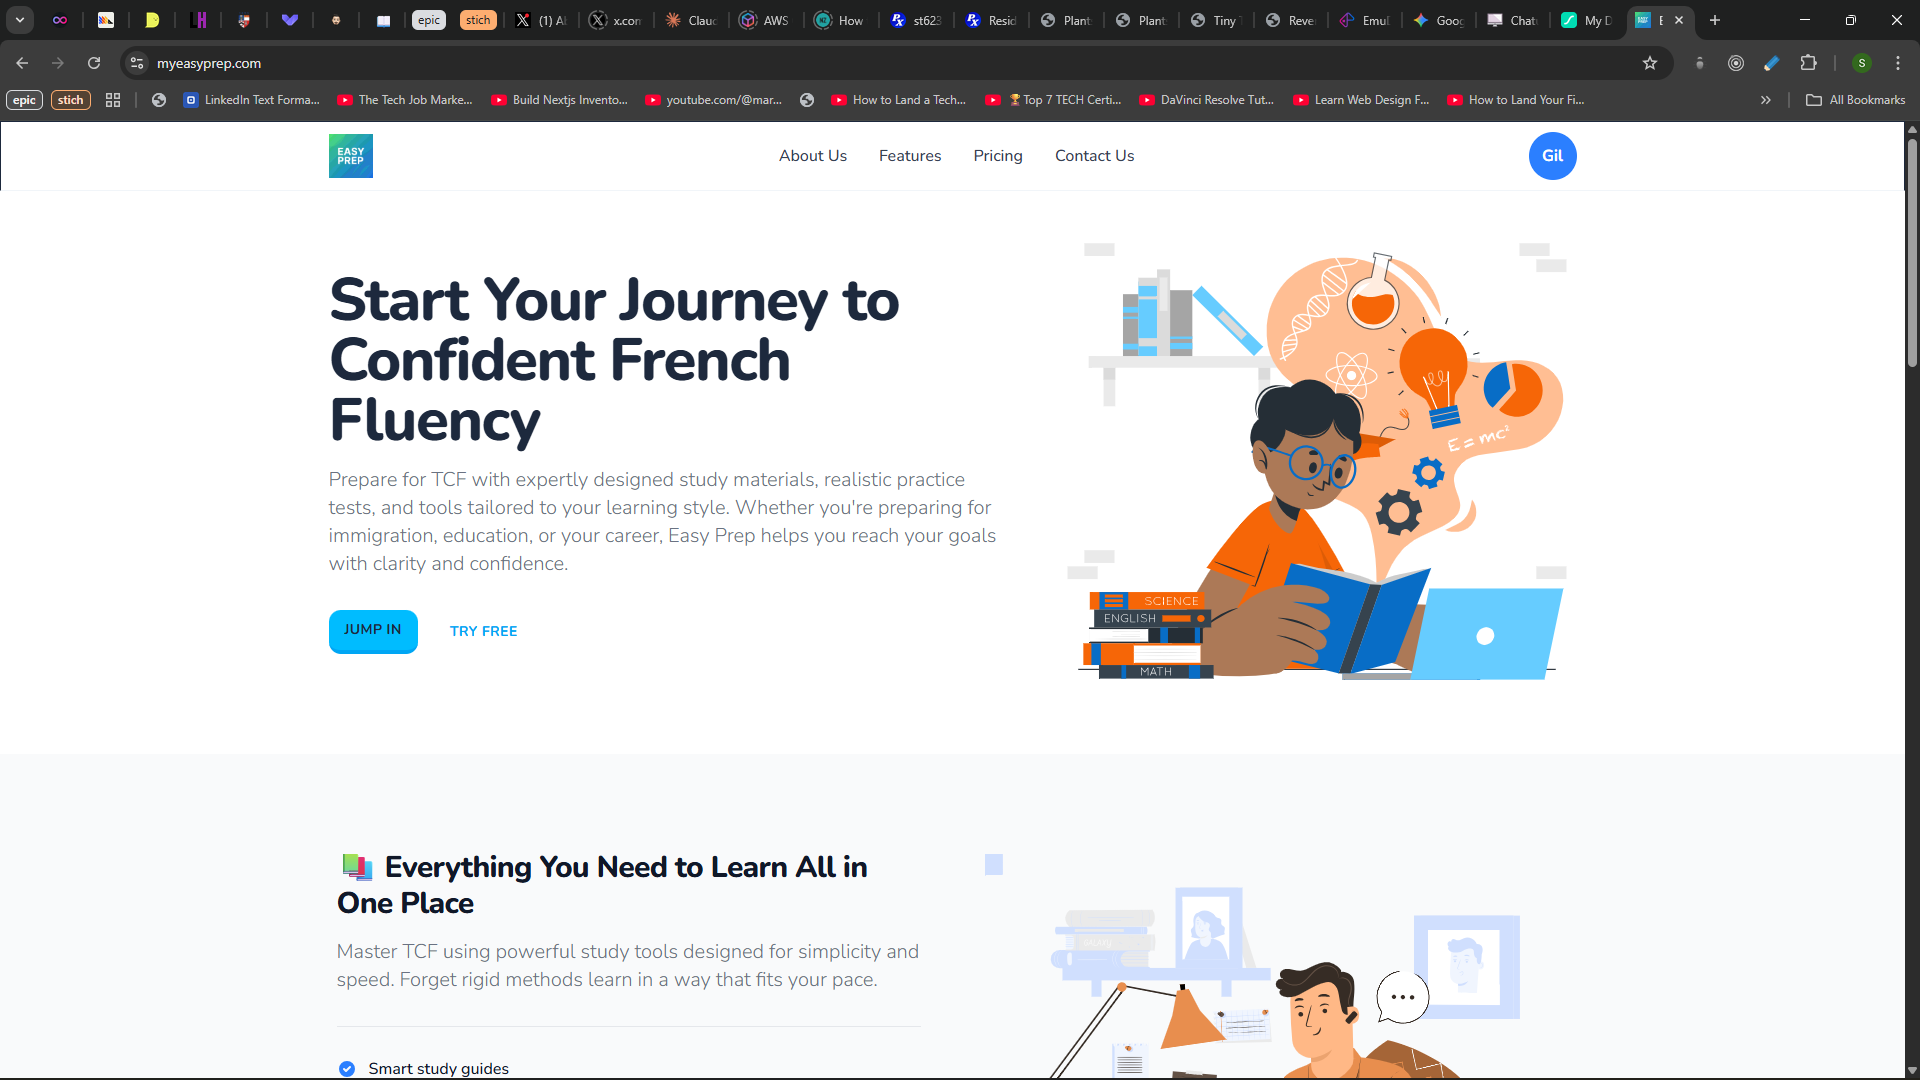
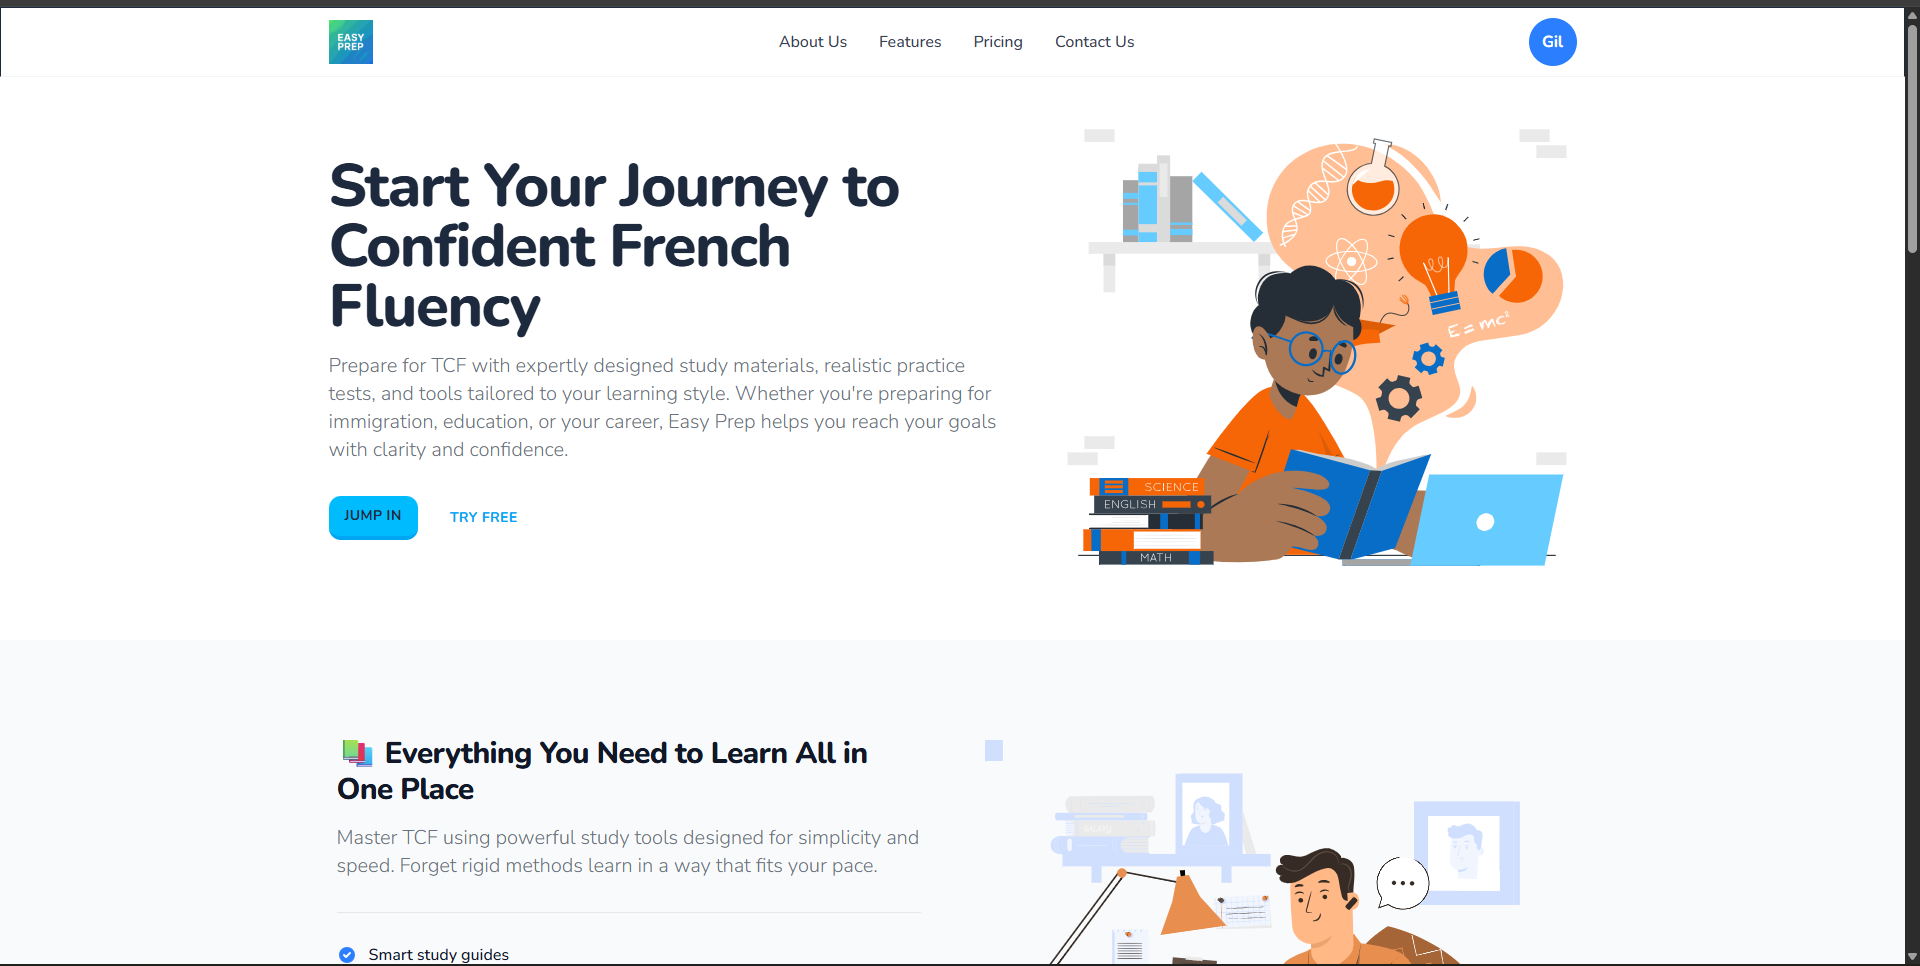
main changes only to content.js

diff --git a/src/data/content.js b/src/data/content.js
@@ -32,8 +32,64 @@ export const PROJECTS = [
     gradient: "g2",
     glyph: "⬡",
     stack: ["React", "Tailwind CSS", "Node.js", "PostgreSQL"],
-    link: null,
+    link: "https://language-test-app-amber.vercel.app/",
     thumb: "/projects/thumbnails/myeasyprep.png",
+  },
+  {
+    id: "bloosat-crm",
+    category: "CRM platform",
+    title: "Bloosat CRM",
+    description:
+      "A full CRM platform enabling Bloosat SA to monitor and manage customer records at scale, with automated billing and dynamic email scheduling.",
+    gradient: "g1",
+    glyph: "◈",
+    stack: ["React", "Node.js", "MySQL", "REST API"],
+    link: "https://ssobloosat.com/v3",
+    thumb: "/projects/thumbnails/crm.png",
+  },
+  {
+    id: "open-pharmacy",
+    category: "Health tool",
+    title: "Open Pharmacy",
+    description: "A live tool that shows which pharmacies are open near you in Cameroon, and lets you search for medicines and compare them.",
+    gradient: "g7",
+    glyph: "✚",
+    stack: ["Vercel"],
+    link: "https://open-pharmacy-git-main-gildas-projects-6b98c95c.vercel.app/",
+    thumb: "/projects/thumbnails/open-pharmacy.png",
+  },
+  {
+    id: "photonet-shop",
+    category: "E-commerce",
+    title: "Photonet Shop",
+    description: "A live online shop where customers order photo prints from home.",
+    gradient: "g5",
+    glyph: "◉",
+    stack: [],
+    link: "https://photonet.shop/",
+    thumb: "/projects/thumbnails/photonet.png",
+  },
+  {
+    id: "games-galerie",
+    category: "Sample app",
+    title: "Shop & Order on WhatsApp",
+    description: "A sample click-to-order app that lets customers contact a business directly on WhatsApp.",
+    gradient: "g6",
+    glyph: "◆",
+    stack: ["WhatsApp", "Vercel"],
+    link: "https://games-galerie-hydtbipng-gildas-projects-6b98c95c.vercel.app",
+    thumb: "/projects/thumbnails/games-galerie.png",
+  },
+  {
+    id: "github-dashboard",
+    category: "Dashboard",
+    title: "GitHub Analytics Dashboard",
+    description: "A dashboard for viewing GitHub analytics, deployed on Vercel.",
+    gradient: "g8",
+    glyph: "▤",
+    stack: ["Vercel"],
+    link: "https://github-analytic-dashbaord-eta.vercel.app/",
+    thumb: "/projects/thumbnails/github-dashboard.png",
   },
   {
     id: "vehicle-tracking",
@@ -70,18 +126,6 @@ export const PROJECTS = [
     stack: ["PostgreSQL", "MySQL", "Docker", "VMware", "VirtualBox"],
     link: null,
     thumb: "/projects/thumbnails/docker.gif",
-  },
-  {
-    id: "bloosat-crm",
-    category: "CRM platform",
-    title: "Bloosat CRM",
-    description:
-      "A full CRM platform enabling Bloosat SA to monitor and manage customer records at scale, with automated billing and dynamic email scheduling.",
-    gradient: "g1",
-    glyph: "◈",
-    stack: ["React", "Node.js", "MySQL", "REST API"],
-    link: null,
-    thumb: "/projects/thumbnails/crm.png",
   },
 ];
 
